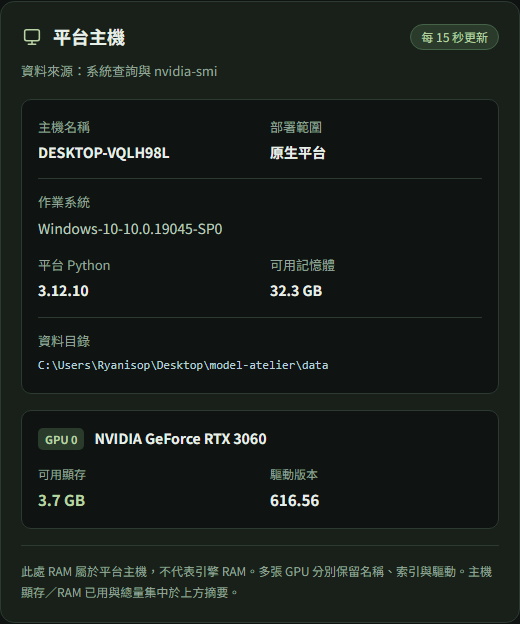
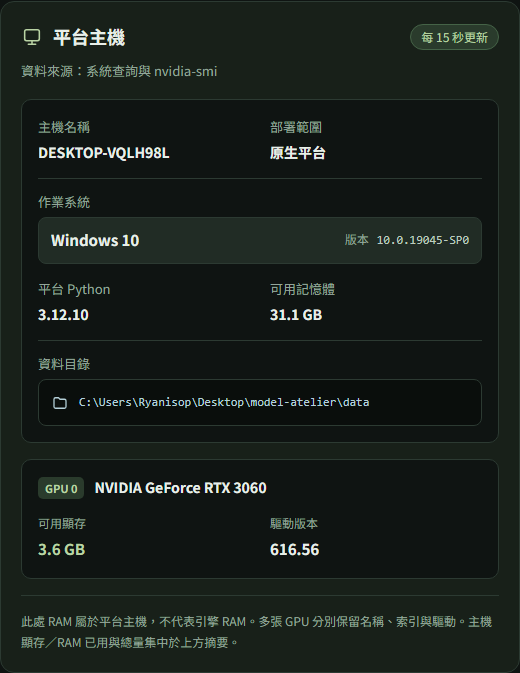
style(system): refine OS version and data path presentation

diff --git a/frontend/src/SystemWorkspace.vue b/frontend/src/SystemWorkspace.vue
@@ -27,6 +27,13 @@ const items = [
   { id: 'storage', label: '儲存與目錄' },
   { id: 'installation', label: '安裝與部署' },
 ]
+const hostOs = computed(() => {
+  const raw = props.system?.os || '未知'
+  const windows = /^Windows-([^-]+)-(.+)$/.exec(raw)
+  return windows
+    ? { name: 'Windows ' + windows[1], version: windows[2] }
+    : { name: raw, version: '' }
+})
 const total = computed(() => storage.value?.totals.total ?? null)
 const free = computed(() => storage.value?.totals.free ?? null)
 const used = computed(() =>
@@ -276,15 +283,21 @@ async function select(value: string, focus = false) {
             ><dt>部署範圍</dt
             ><dd>{{ system.runtime_kind === 'container' ? '容器可見資源' : '原生平台' }}</dd></div
           ><div class="host-fact-wide host-os"
-            ><dt>作業系統</dt><dd>{{ system.os }}</dd></div
+            ><dt>作業系統</dt
+            ><dd class="host-os-display" :title="system.os"
+              ><strong>{{ hostOs.name }}</strong
+              ><span v-if="hostOs.version" class="host-os-version"
+                ><span>版本</span><code>{{ hostOs.version }}</code></span
+              ></dd
+            ></div
           ><div
             ><dt>平台 Python</dt><dd>{{ system.python }}</dd></div
           ><div
             ><dt>可用記憶體</dt><dd>{{ gb(system.ram.free) }}</dd></div
           ><div class="host-fact-wide host-data-path"
             ><dt>資料目錄</dt
-            ><dd
-              ><code>{{ system.disk.path }}</code></dd
+            ><dd class="host-path-display"
+              ><UiIcon name="assets" :size="18" /><code>{{ system.disk.path }}</code></dd
             ></div
           ></dl
         ><p v-else class="muted host-empty">尚未取得主機資訊，請重新整理後再查看。</p

diff --git a/frontend/src/redesign.css b/frontend/src/redesign.css
@@ -611,17 +611,61 @@
   border-top: 1px solid var(--line);
   padding-top: 12px;
 }
-#app .atelier-shell .host-os dd {
+#app .atelier-shell .host-os-display {
+  display: flex;
+  flex-wrap: wrap;
+  align-items: center;
+  justify-content: space-between;
+  gap: 8px 16px;
+  padding: 10px 12px;
+  border: 1px solid var(--line);
+  border-radius: 8px;
+  background: var(--raised);
+}
+#app .atelier-shell .host-os-display strong {
+  font-size: 15px;
+  font-weight: 600;
+  color: var(--ink);
+}
+#app .atelier-shell .host-os-version {
+  display: flex;
+  flex-wrap: wrap;
+  align-items: baseline;
+  gap: 4px 8px;
+  min-width: 0;
+  font-size: 12px;
   font-weight: 400;
+  color: var(--ink3);
+}
+#app .atelier-shell .host-os-version code {
+  font:
+    12px/1.8 Consolas,
+    monospace;
   color: var(--ink2);
+  white-space: normal;
+}
+#app .atelier-shell .host-path-display {
+  display: flex;
+  align-items: flex-start;
+  gap: 10px;
+  padding: 12px;
+  border: 1px solid var(--line);
+  border-radius: 8px;
+  background: var(--stage);
+}
+#app .atelier-shell .host-path-display .ui-icon {
+  margin-top: 2px;
+  color: #b5d0d9;
 }
 #app .atelier-shell .host-data-path code {
   display: block;
+  flex: 1;
   font:
     12px/1.8 Consolas,
     monospace;
   color: #b5d0d9;
   white-space: normal;
+  user-select: all;
 }
 #app .atelier-shell .host-gpu {
   margin-top: 16px;
